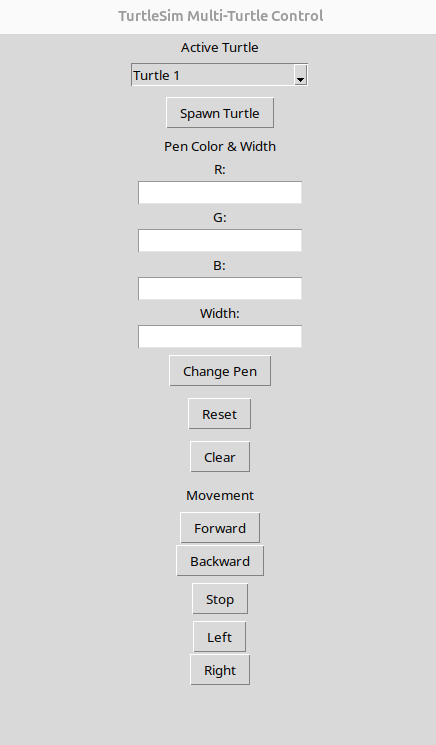
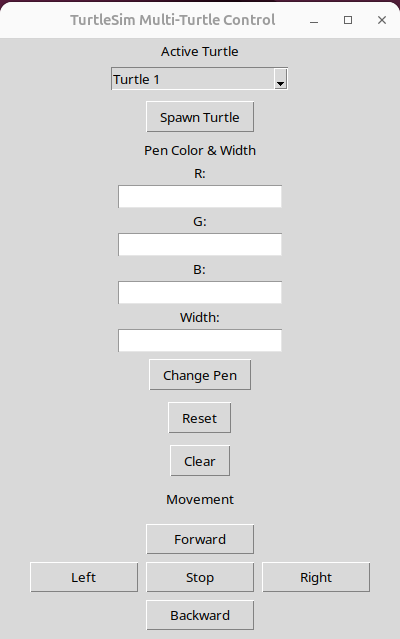
Updated GUI layout, fixed button visibility, added screenshots

diff --git a/src/turtle_simulation/ts_gui_services/turtle_gui_pkg/turtle_gui.py b/src/turtle_simulation/ts_gui_services/turtle_gui_pkg/turtle_gui.py
@@ -203,11 +203,35 @@ def start_gui(node: TurtleSimGUI):
 
     # --- Movement buttons ---
     tk.Label(root, text="Movement").pack(pady=5)
-    tk.Button(root, text="Forward", command=lambda: node.active_turtle.start_forward()).pack()
-    tk.Button(root, text="Backward", command=lambda: node.active_turtle.start_backward()).pack()
-    tk.Button(root, text="Stop", command=lambda: node.active_turtle.stop()).pack(pady=5)
-    tk.Button(root, text="Left", command=lambda: node.active_turtle.turn_left()).pack()
-    tk.Button(root, text="Right", command=lambda: node.active_turtle.turn_right()).pack()
+
+    movement_frame = tk.Frame(root)
+    movement_frame.pack(pady=5)
+
+    # Make grid responsive
+    for i in range(3):
+        movement_frame.grid_columnconfigure(i, weight=1)
+        movement_frame.grid_rowconfigure(i, weight=1)
+
+    # D-pad style layout
+    tk.Button(movement_frame, text="Forward",
+             command=lambda: node.active_turtle.start_forward(), width=10)\
+       .grid(row=0, column=1, padx=3, pady=3)
+
+    tk.Button(movement_frame, text="Left",
+             command=lambda: node.active_turtle.turn_left(), width=10)\
+       .grid(row=1, column=0, padx=3, pady=3)
+
+    tk.Button(movement_frame, text="Stop",
+             command=lambda: node.active_turtle.stop(), width=10)\
+       .grid(row=1, column=1, padx=3, pady=3)
+
+    tk.Button(movement_frame, text="Right",
+             command=lambda: node.active_turtle.turn_right(), width=10)\
+       .grid(row=1, column=2, padx=3, pady=3)
+
+    tk.Button(movement_frame, text="Backward",
+             command=lambda: node.active_turtle.start_backward(), width=10)\
+       .grid(row=2, column=1, padx=3, pady=3)
 
     root.mainloop()
 

diff --git a/README.md b/README.md
@@ -1,7 +1,7 @@
 # tiburon-inductions
 
 ## Overview
-This repository contains implementations of ROS2-based robotics tasks including simulation, perception, communication, and Gazebo environments.
+This repository contains implementations of ROS2-based robotics tasks including simulation, perception and communication.
 
 ## Tasks Completed
 💠 Turtle Simulation
@@ -9,10 +9,6 @@ This repository contains implementations of ROS2-based robotics tasks including 
   - Navigation
   - GUI Services
   - Follow the Girl
-
-💠 Gazebo Ignition Fortress
-  - Buoyancy Slider
-  - Multi-Bot Spawning
 
 💠 ROS2 Communication
   - Frequency Control

diff --git a/src/turtle_simulation/ts_gui_services/readme.md b/src/turtle_simulation/ts_gui_services/readme.md
@@ -3,6 +3,7 @@
 **Use Python Tkinter or PyQt to create buttons that call ROS2 services like reset, clear, or spawn turtles or change color of pen of turtle**
 
 ![GUI Controls](media/GUI_controls.png)
+Updated GUI controls. Not same as the gif below. Screen maximize issue solved.
 
 ![TurtleSim GUI Demo](media/output.gif)
 

diff --git a/readme.md b/readme.md
@@ -32,18 +32,6 @@ PyQt (optional alternative):
 sudo apt install python3-pyqt5
 ```
 
-### 3. Gazebo Ignition Fortress
-
-```bash
-sudo apt install ignition-fortress
-```
-
-ROS2-Gazebo bridge:
-
-```bash
-sudo apt install ros-humble-ros-gz
-```
-
 ### 4. OpenCV (for Perception Tasks)
 
 ```bash

diff --git a/src/readme.md b/src/readme.md
@@ -1,7 +1,6 @@
 ## Tiburon Software Induction Tasks
 
 1. Turtle Simulation        --> turtle_simulation
-2. Gazebo Ignition Fortress --> gazebo_ignition_fortress
 3. ROS2 Communication       --> ros2_communication
 4. Perception               --> perception
 
